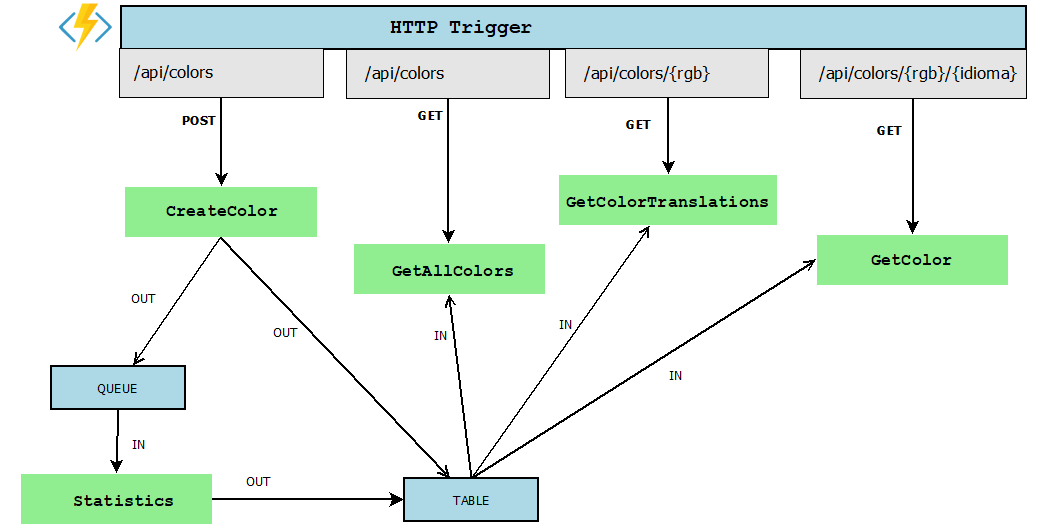
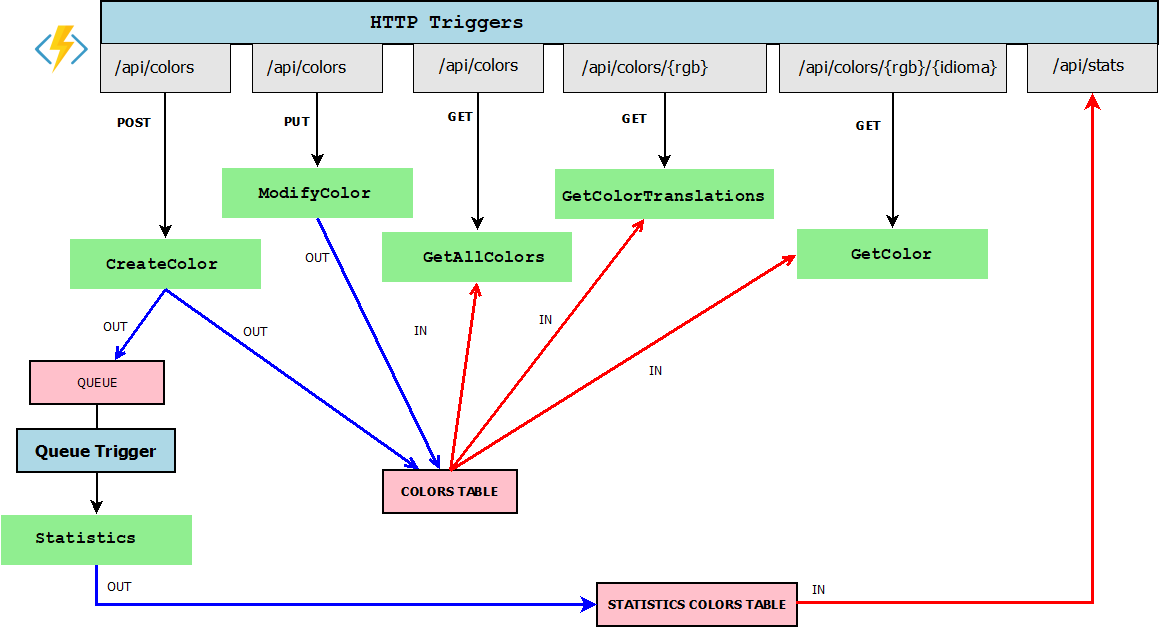
Obtenir les estadístiques per idiomes

diff --git a/FunctionColorApp/ColorStatisticsFunction.cs b/FunctionColorApp/ColorStatisticsFunction.cs
@@ -1,7 +1,10 @@
 using System;
 using System.Threading.Tasks;
 using FunctionColorApp.Models;
+using Microsoft.AspNetCore.Http;
+using Microsoft.AspNetCore.Mvc;
 using Microsoft.Azure.WebJobs;
+using Microsoft.Azure.WebJobs.Extensions.Http;
 using Microsoft.Azure.WebJobs.Host;
 using Microsoft.WindowsAzure.Storage.Table;
 
@@ -30,5 +33,15 @@ namespace FunctionColorApp
             await table.AddOrUpdateStatisticsToTable(item);
             log.Info($"{idioma}: {item.quantitat}");
         }
+
+        [FunctionName("GetAllStats")]
+        public static IActionResult GetAllStats([HttpTrigger(AuthorizationLevel.Anonymous, "get", Route = "stats")]HttpRequest req,
+            [Table("colorsStatisticsTable", Connection = "MyTable")]CloudTable inTable,
+            TraceWriter log)
+        {
+            log.Info("Petició de les estadístiques.");
+            return new OkObjectResult(inTable.GetAllStatistics());
+        }
+
     }
 }

diff --git a/README.md b/README.md
@@ -21,7 +21,7 @@ Aquestes dades poden ser recuperades en un navegador amb peticions REST
 
 ### Crear un color
 
-S'envia un POST a /api/colors amb el contingut
+S'envia un POST a `/api/colors` amb el contingut
 
 L'estructura per crear una traducció és un document JSON que té aquesta forma:
 
@@ -43,6 +43,28 @@ Hi ha diferents URL per obtenir el que hi ha la base de dades
 | GET    | /api/colors/000000         | Retorna totes les traduccions d'un determinat RGB (en l'exemple 000000) |
 | GET    | /api/colors/000000/catala  | Retorna la traducció al català del 000000                               |
 
+### Obtenir les estadístiques per idiomes
+
+Hi ha una referència per obtenir les estadístiques per idiomes. Es crida a la url `/api/stats`.
+
+Retorna un objecte JSON com aquest:
+
+    [
+        {
+            "idioma": "angles",
+            "quantitat": 1
+        },
+        {
+            "idioma": "castella",
+            "quantitat": 2
+        },
+        {
+            "idioma": "catala",
+            "quantitat": 7
+        }
+    ]
+
+La gràcia d'aquesta petició és que es genera l'estadística a partir d'una funció que s'executa en el moment en que detecta que hi ha un missatge en una cua de missatges
 
 Requeriments
 ------------------------
@@ -50,7 +72,7 @@ Es pot executar directament al núvol d'Azure:
 
 - Creant un compte a Azure
     - Creant 'Storage'
--  canviant les dades de connexió actuals que es troben a local.settings.json per les que tingueu
+-  canviant les dades de connexió actuals que es troben a `local.settings.json` per les que tingueu
 
 O bé en local instal·lant [Azure Functions Core Tools](https://docs.microsoft.com/en-us/azure/azure-functions/functions-run-local) i el [emulador de Storage](https://docs.microsoft.com/es-es/azure/storage/common/storage-use-emulator)
 
